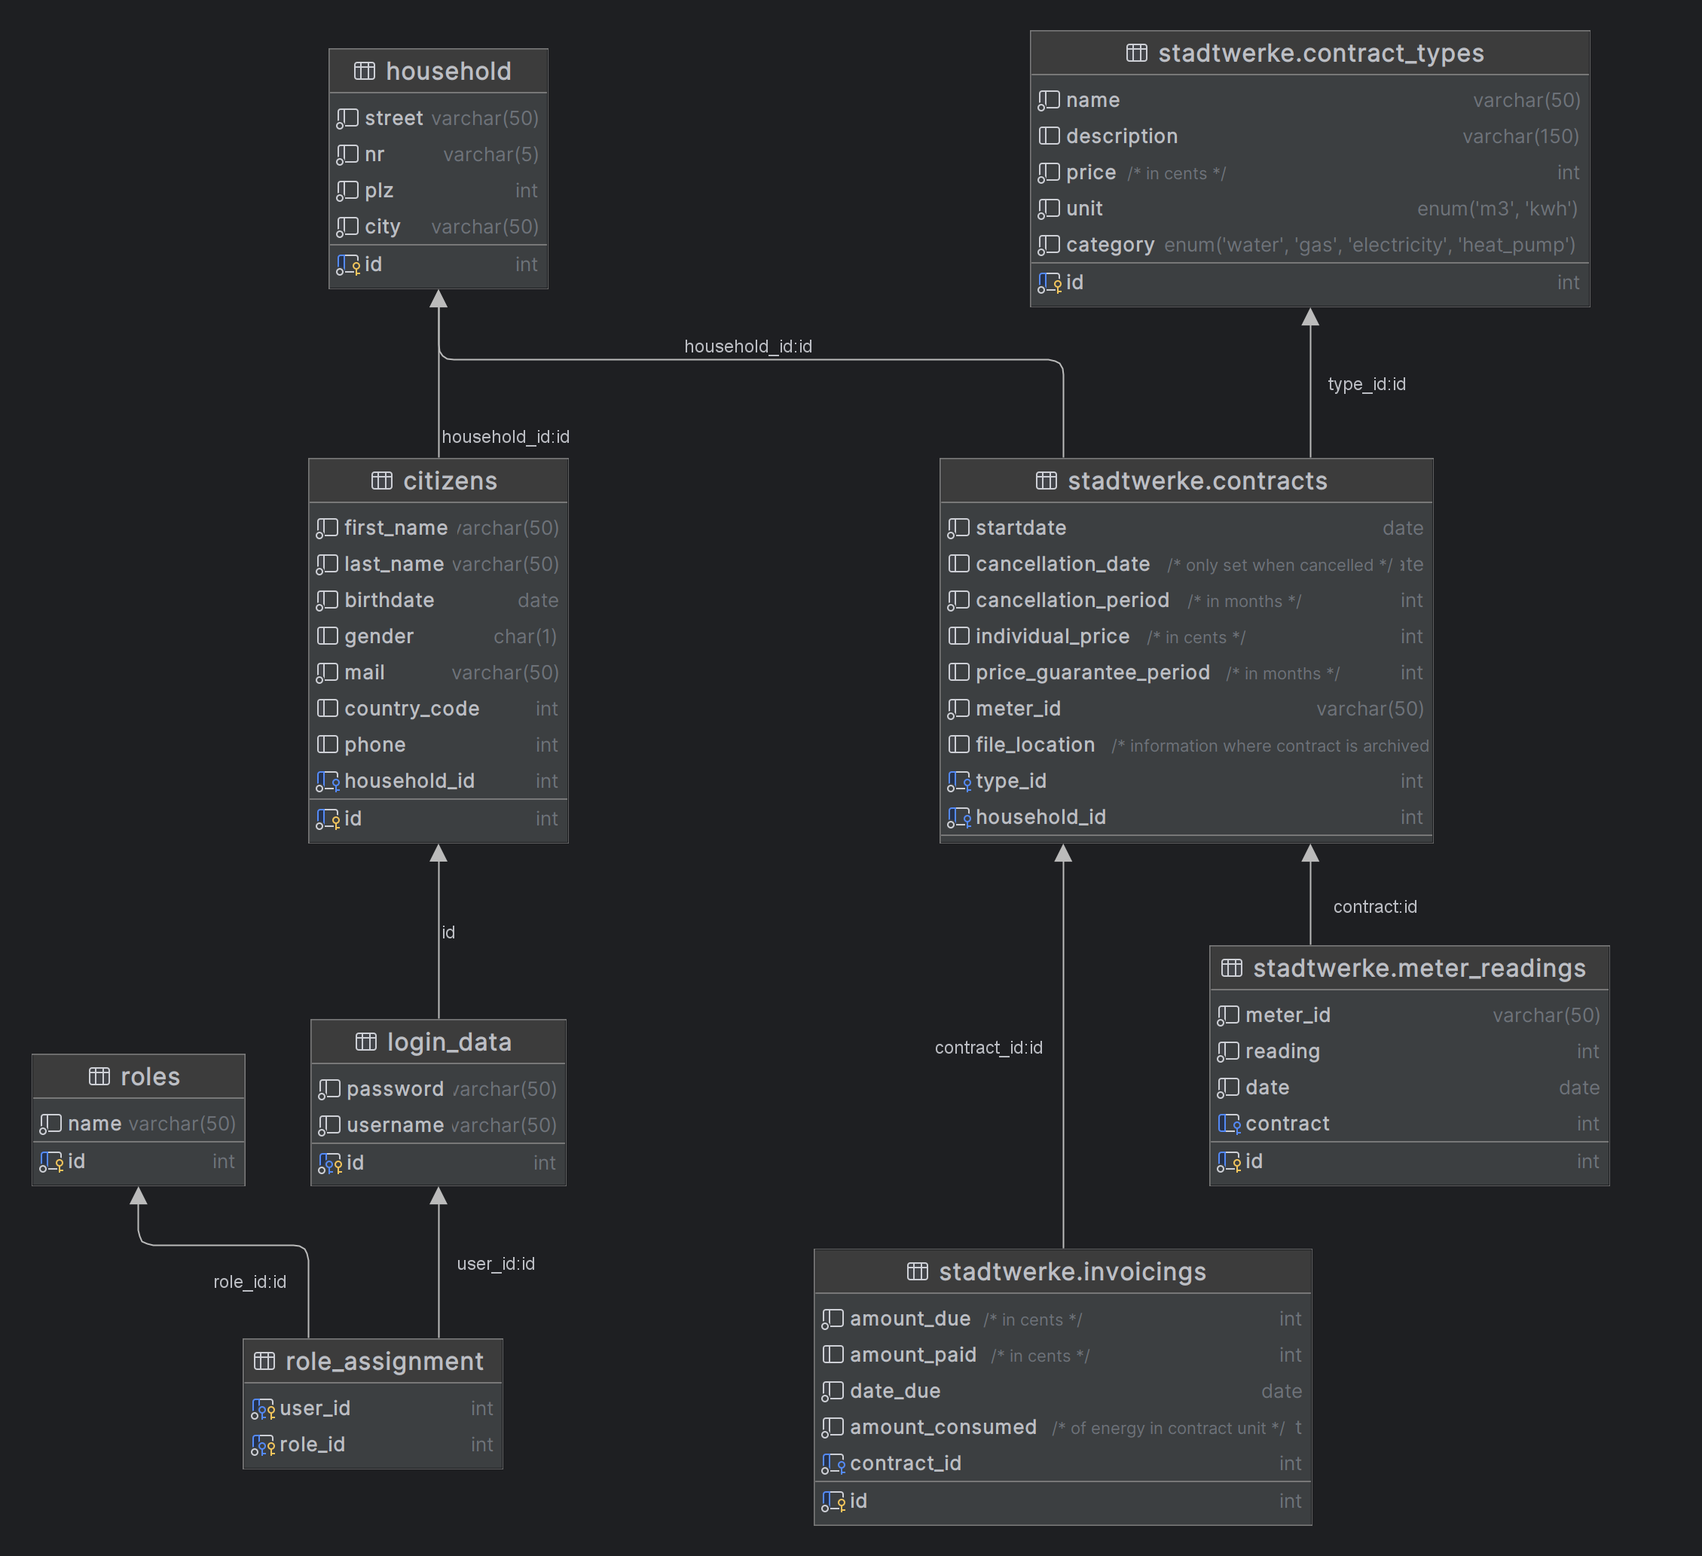
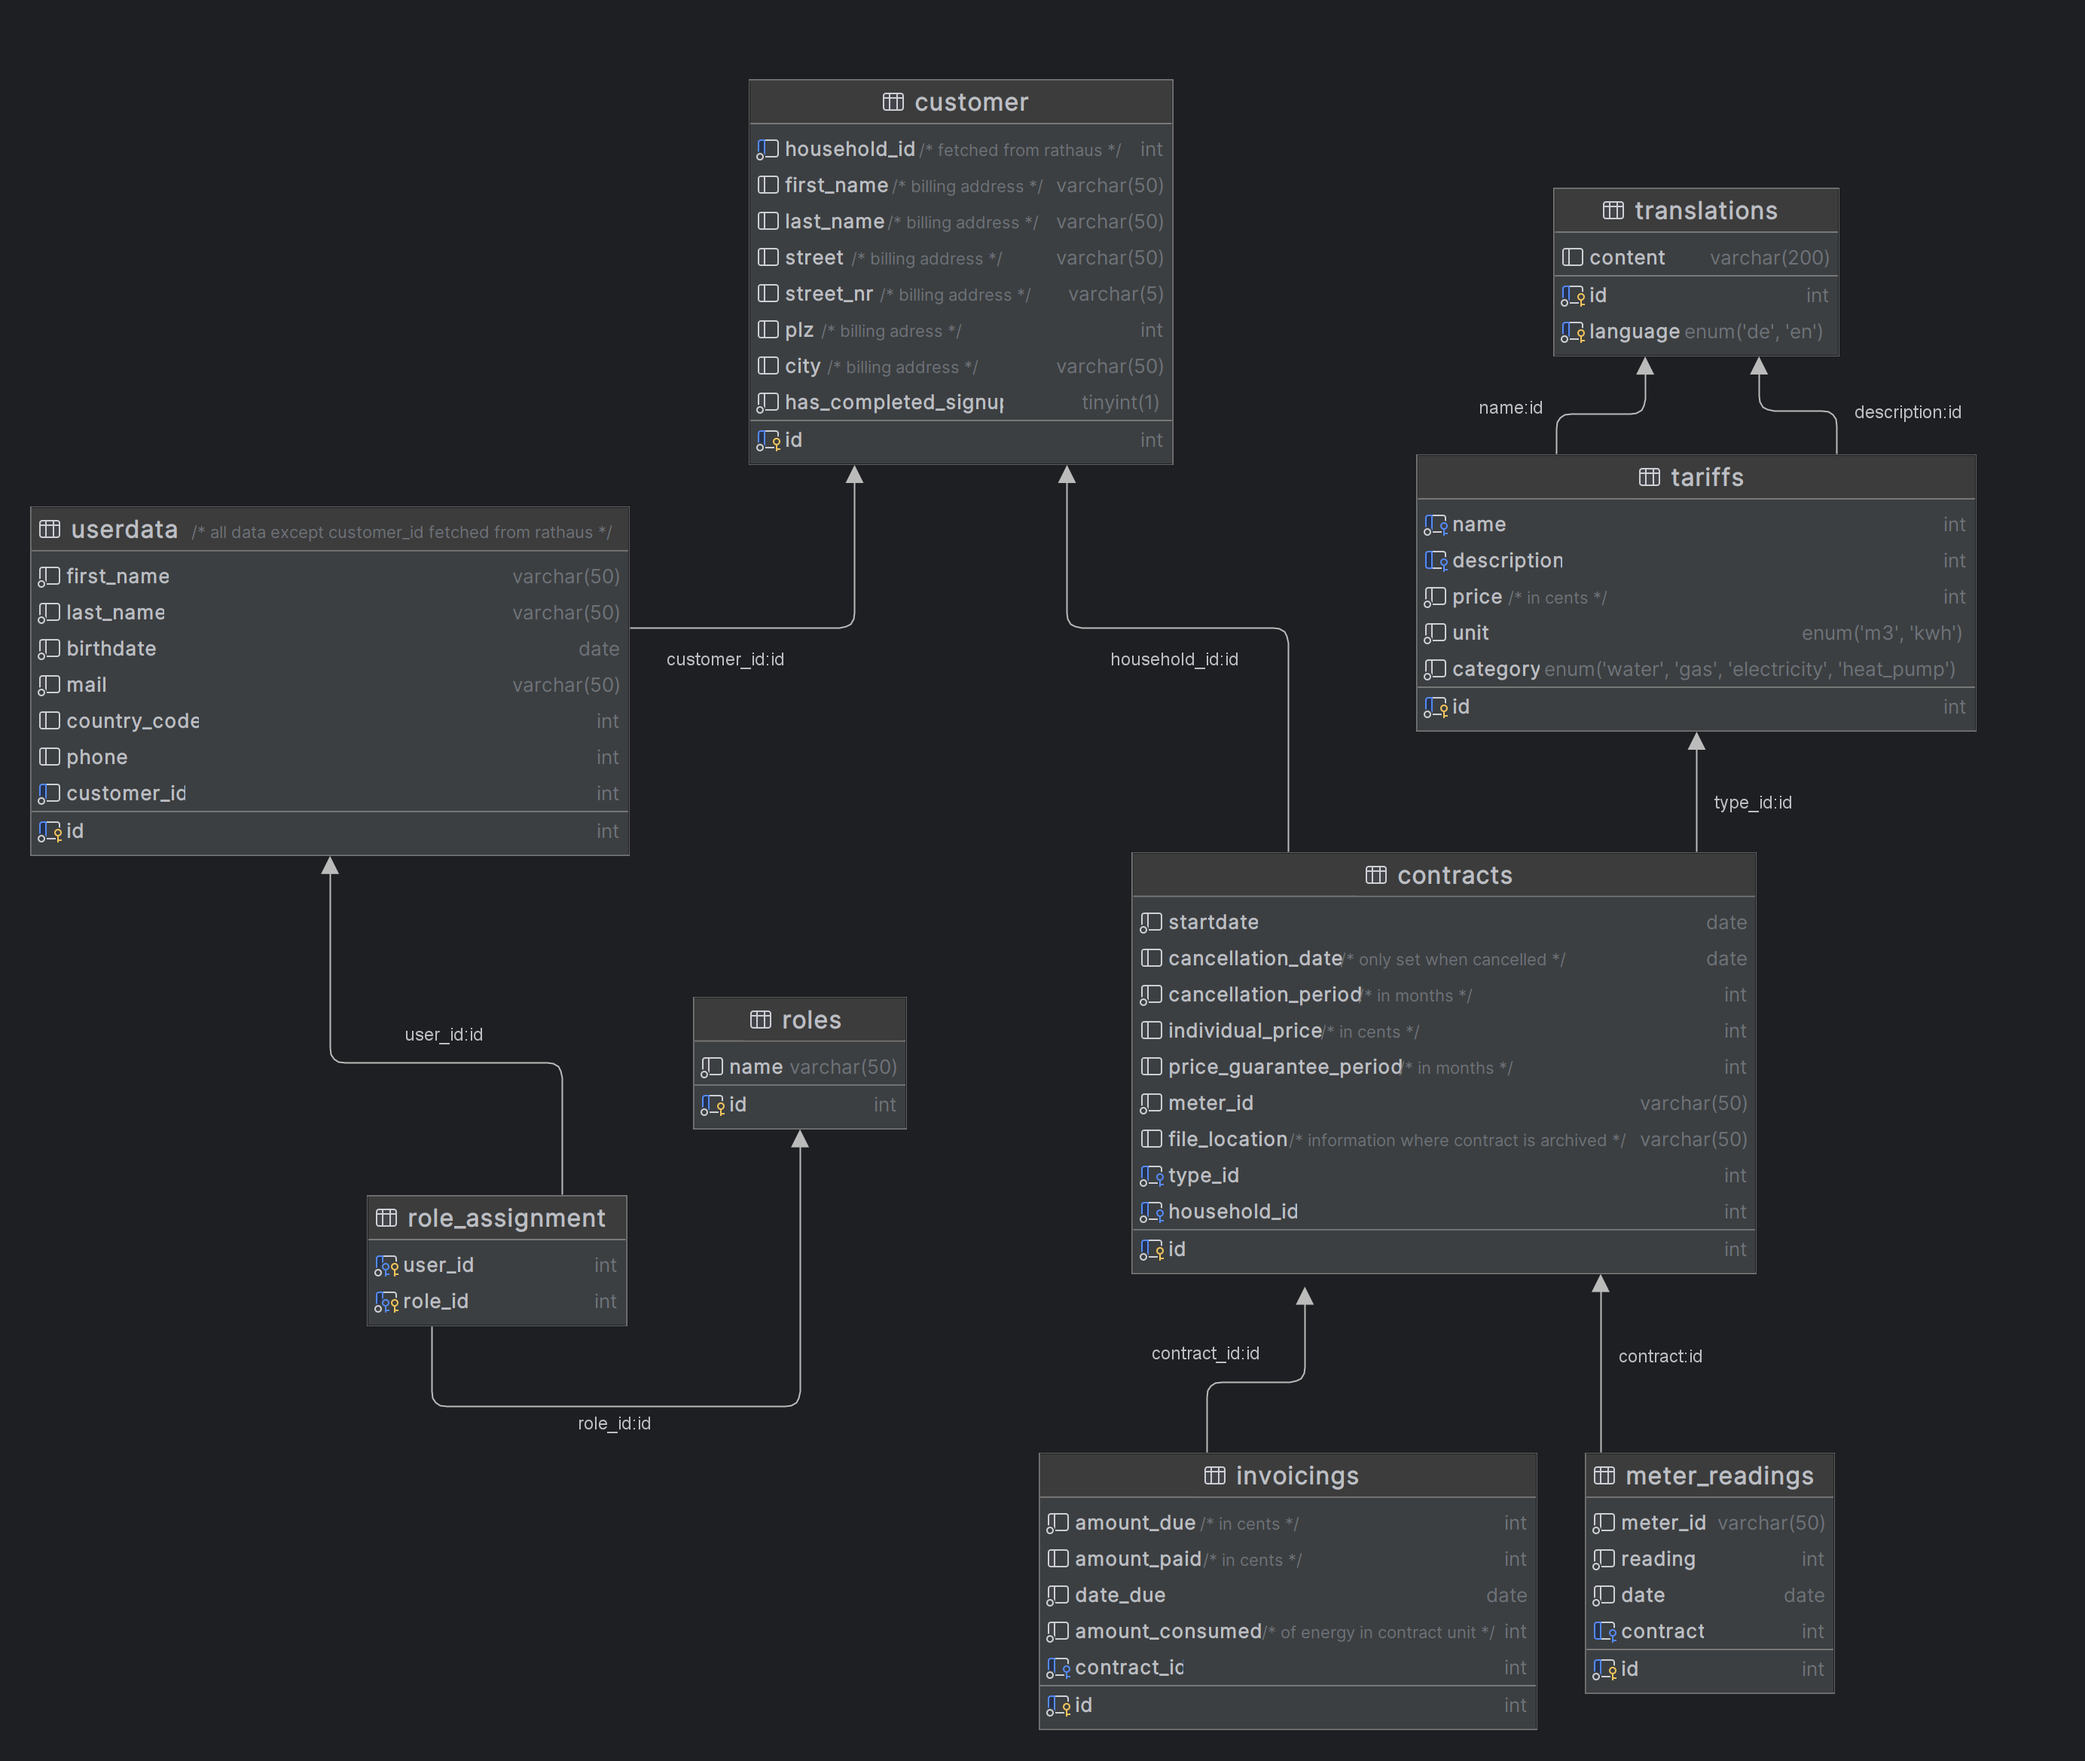
new EER model (#129)
* new EER model and according update to readme

* fix

---------

diff --git a/Documents/Datamodel/README.md b/Documents/Datamodel/README.md
@@ -2,9 +2,8 @@
 
 ## Database design
 
-A shared database will be used for all *Bad Walden* software.  
-The following EER diagram displays the databased design with tables for the *stadtwerke* software as well as used shared tables:
-![db_EER_markup.png](db_EER_markup.png)
-There will be more shared use tables in the database, catering for needs of other development groups and designed on their end.
+The following EER diagram displays the databased design with tables for the *stadtwerke* software.  
+It is important to note that this diagram is showing an ideal case where user data, including household information can be fetched via a secure api from the rathaus group:
+![db_EER.png](db_EER.png)
 The diagram can also be generated from plantUML code:    
 [db_structure.plantuml](db_structure.plantuml)

diff --git a/README.md b/README.md
@@ -27,7 +27,7 @@ We want to give you a directory to the files that build the base for what we imp
 
 BPMN: [Documents/Application Software/SignUp Process BPMN_Final.png](Documents/Application%20Software/SignUp%20Process%20BPMN_Final.png)<br>
 UI: [Documents/UI/PNGs/Login/SignUp.png](Documents/UI/PNGs/Login/SignUp.png)<br>
-Datamodel: [Documents/Datamodel/db_EER_markup.png](Documents/Datamodel/db_EER_markup.png) and  [Documents/Datamodel/db_structure.plantuml](Documents/Datamodel/db_structure.plantuml)<br>
+Datamodel: [Documents/Datamodel/db_EER.png](Documents/Datamodel/db_EER.png) and  [Documents/Datamodel/db_structure.plantuml](Documents/Datamodel/db_structure.plantuml)<br>
 
 ---
 
